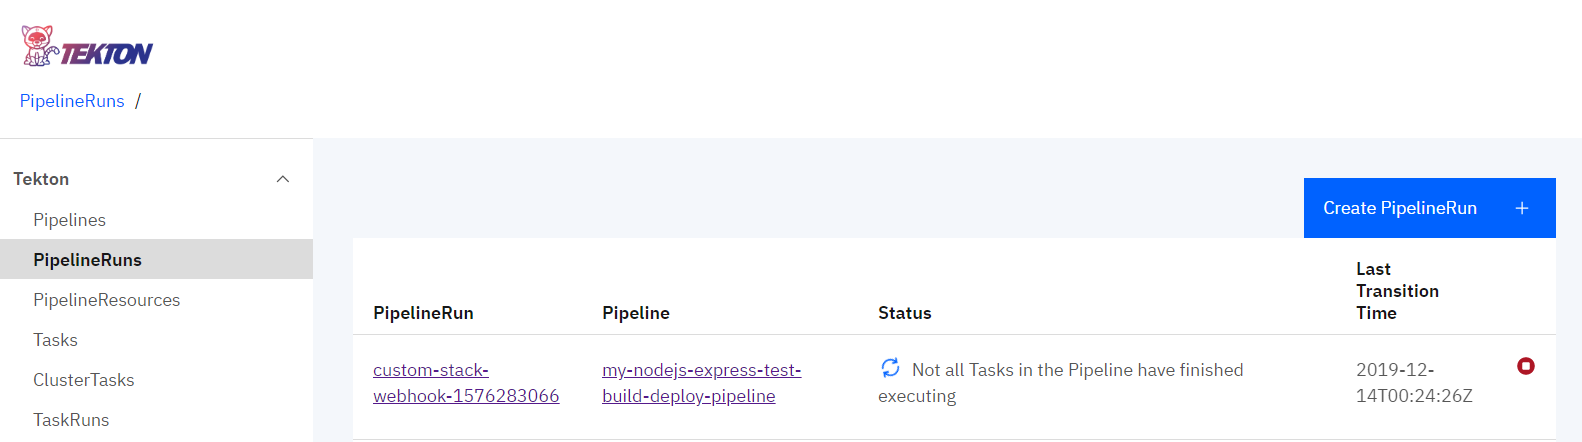
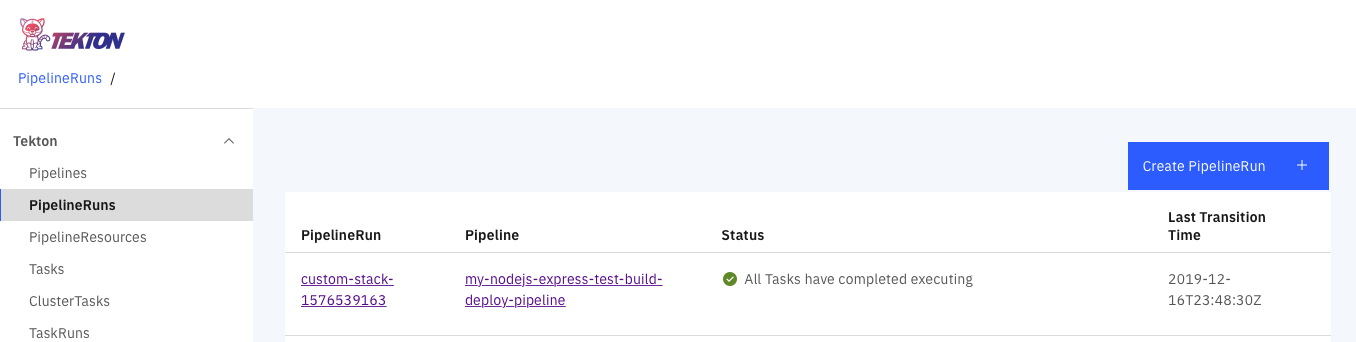
Modified pictures for pipeline run

diff --git a/workshop/exercise-9/README.md b/workshop/exercise-9/README.md
@@ -299,15 +299,15 @@ git commit -m "Minor update to test pipeline"
 git push -u my-org
 ```
 
-Return to the Tekton *Pipeline Runs* tab to check on the status of your deployment.
+Return to the Tekton *Pipeline Runs* tab to check on the status of your deployment. After a while it should show that the pipeline run is complete.
 
 ![Pipeline running](images/tekton-pipeline-run.png)
 
-Once complete, you can see that all three tasks were run:
+You can also click on the specific pipeline run link (`custom-stack-1576539163` in the above example), and see the progress of the three tasks which make up the new pipeline. Once they are all complete, it should look similar to the picture below. Notice how you can click on a given task (e.g. the new test-task we created) to see the output.
 
-> FIXME (henrynash): Add a picture that shows how you should see all three tasks have run.
+![Pipeline tasks complete](images/tekton-pipeline-complete.png)
 
-Confirm that our test application, with the upgraded stack, is now running with a curl -v to the route. You should see helmet responses, e.g.:
+Once the pipeline run is complete, you can confirm that our test application, with the upgraded stack, is now running with a curl -v to the route. You should see helmet responses, e.g.:
 
 ```bash
 $ curl -v http://test-custom-stack-kabanero.timro-roks1-5290c8c8e5797924dc1ad5d1b85b37c0-0001.us-east.containers.appdom
